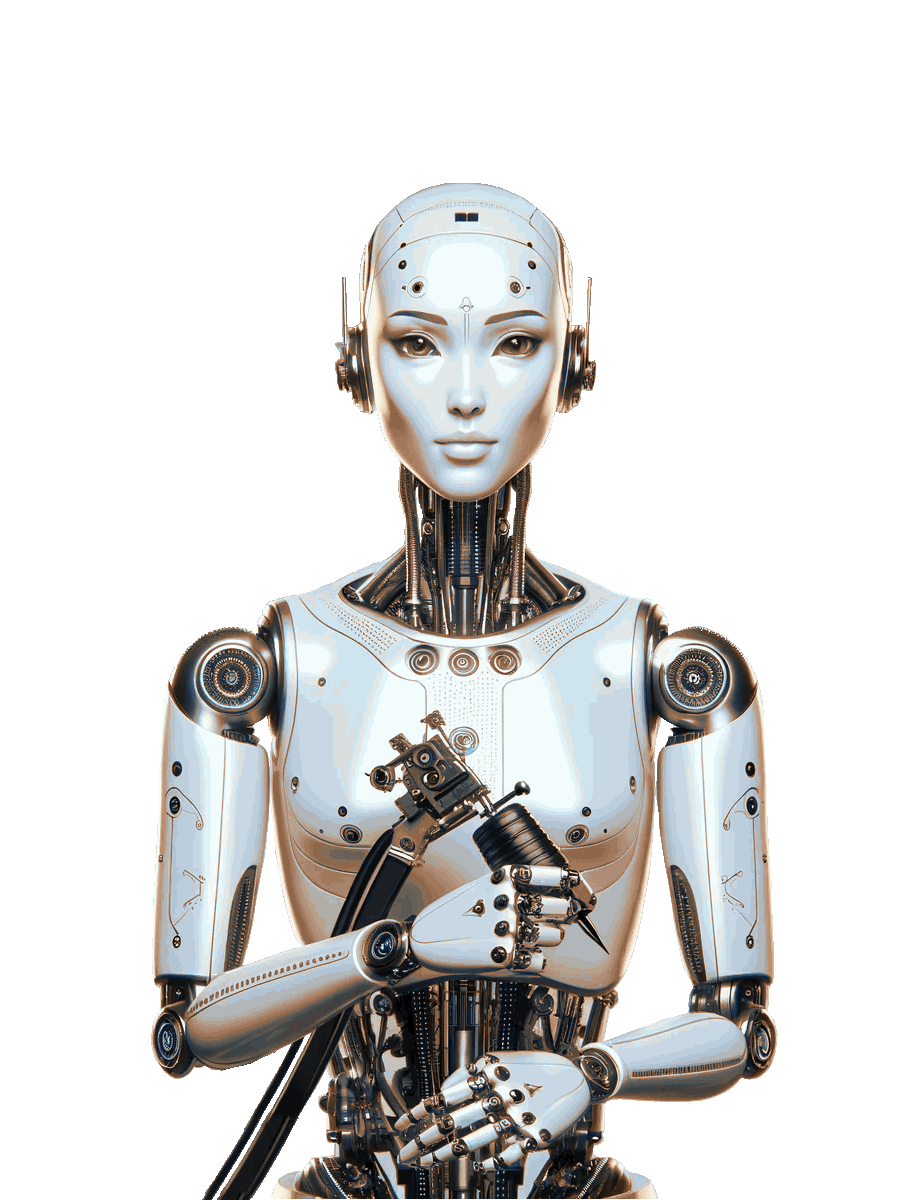
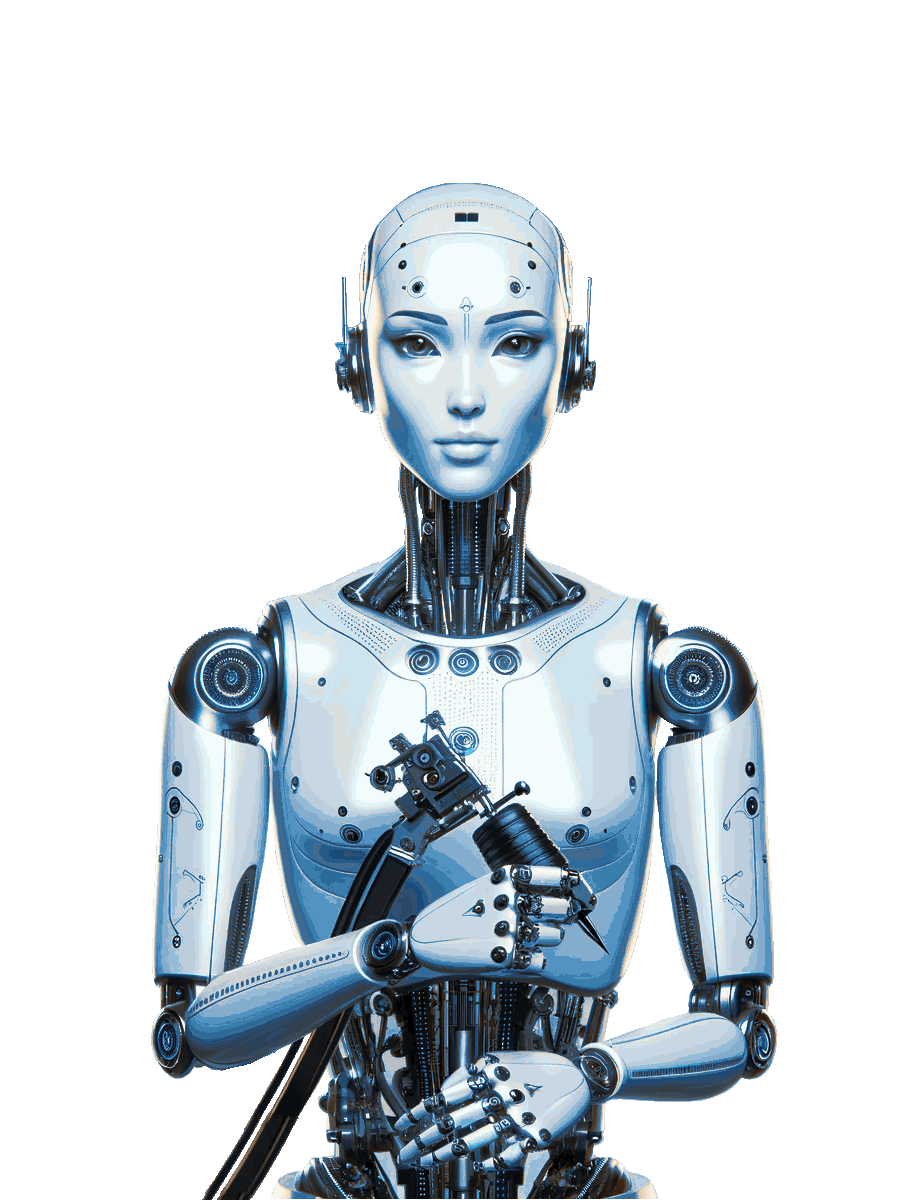
fix animation stronger color

Changed region(s): [[0.1538, 0.185, 0.8615, 1.0]]

diff --git a/build/static/css/main.6b842ee2.css b/build/static/css/main.6b842ee2.css
@@ -1,0 +1,2 @@
+body{-webkit-font-smoothing:antialiased;-moz-osx-font-smoothing:grayscale;font-family:-apple-system,BlinkMacSystemFont,Segoe UI,Roboto,Oxygen,Ubuntu,Cantarell,Fira Sans,Droid Sans,Helvetica Neue,sans-serif;margin:0}.input-wrapper{justify-content:center;margin-bottom:1rem}code{font-family:source-code-pro,Menlo,Monaco,Consolas,Courier New,monospace}.App{display:flex;flex-direction:column;min-height:100vh;position:relative;text-align:center}.reversed{transform:rotate(180deg)}.reversed-text{color:grey;font-size:16px;opacity:.5}.hidden{display:none}@keyframes fadeInOut{0%,to{opacity:.1}50%{opacity:.6}}@keyframes fadeInOut_oldman{0%,to{opacity:0}50%{opacity:1}}.header-buttons{align-items:right;display:flex;gap:10px;padding:20px;position:fixed;right:0;top:0;z-index:100}.profile-name{color:#6a567b;font-size:20px}.header-button{background-color:#6a567b;border:0 solid #ccc;border-radius:5px;color:#fff;cursor:pointer;font-size:15px;padding:10px 20px}.header-button-google{font-size:15px;height:40px;padding:0;text-decoration:none}.my_account_button{background-color:#341e4f;border:2px solid #462b5e;border-radius:5px;color:#fff;cursor:pointer;font-size:15px;padding:10px 20px;text-decoration:none}.my_account_button:hover{background-color:#6a567b;border:3px solid #6a567b;color:#fff;text-decoration:none}.header-button-google .google-logo{flex-shrink:0;height:100%;margin:0 10px 0 0;width:auto}.google-logo{margin-left:0}.header-button-google{background-color:#4285f4;color:#fff;justify-content:flex-start}.header-button-google img{margin-right:0}.header-button-google:hover,.header-button:hover{background-color:#38966d}body::-webkit-scrollbar{background:#0000;width:0}body{-ms-overflow-style:none;scrollbar-width:none}.tarot-star{animation:fadeInOut 5s infinite;width:30%}.oldman_fade,.tarot-star{bottom:0;height:auto;position:fixed;right:0;z-index:2}.oldman_fade{animation:fadeInOut_oldman 10s infinite;width:25%}@keyframes rotate360{0%{transform:rotate(0deg)}to{transform:rotate(1turn)}}.bottom-right-image{width:30%}.bottom-right-image,.bottom-right-image2{bottom:0;height:auto;position:fixed;right:0;z-index:1}.bottom-right-image2{width:25%}.loading-visual-female{animation:rotate360 5s linear infinite;height:auto;max-width:30%;opacity:.4}.center-container{align-items:center;display:flex;height:133vh;justify-content:center;left:0;position:fixed;top:0;width:100vw;z-index:0}.bottom-right-image-female,.bottom-right-image-woman{bottom:0;height:auto;position:fixed;right:0;width:25%;z-index:2}.AI-female-animate,.AI-woman-animate{animation:fadeInOut2 5s infinite;bottom:0;height:auto;position:fixed;right:0;width:25%;z-index:2}@keyframes fadeInOut2{0%,to{opacity:.1}50%{filter:box-shadow(0 0 20px rgb(7,147,35,.7));opacity:.8}}@keyframes fadeInOut3{0%,to{opacity:.1}50%{opacity:.9}}@keyframes teleportIn{0%{opacity:0}to{opacity:1}}.teleport-in{animation:teleportIn 1s ease-in-out}@keyframes load{0%,to{opacity:.2}50%{opacity:1}}.loading-image{animation:load 1s linear infinite;bottom:0;height:auto;position:fixed;right:0;width:30%;z-index:2}.App-header{align-items:center;background-color:#341e4f;color:#fff;display:flex;flex:99 1;flex-direction:column;font-size:calc(10px + 2vmin);justify-content:center}.tarot-cards-container{position:relative;z-index:2}.App-link{color:#237fbb}.App-footer{background-color:#341e4f;color:#a49f9f;flex:1 1;font-size:14px;margin-top:0;padding:10px;text-align:center}.App-footer a{color:#237fbb;font-size:16px;position:relative;text-decoration:none;z-index:2}.input-wrapper{align-items:center;display:flex;flex-direction:column}.user-info{display:flex;justify-content:space-between;margin-bottom:10px;width:100%;z-index:2}.container h2{margin-bottom:20px}.user-input,.user-select{flex-grow:1;margin:0 5px;min-width:0;z-index:2}.prompt-input{margin-bottom:10px;width:100%;z-index:2}.result-image-wrapper{border:2px solid #4a286e;border-radius:5px;color:#fff;font-size:16px;line-height:1.6;margin:20px auto;max-width:600px;padding:15px;z-index:2}.result-image-wrapper h3{margin-top:0;text-align:center;z-index:2}.password-overlay{align-items:center;background-color:#1e1e1e80;display:flex;flex-direction:column;height:100%;justify-content:center;left:0;position:fixed;top:0;width:100%;z-index:3}.password-info{background-color:#ffffffb3;border-radius:10px;color:#000;font-family:Arial,Helvetica,sans-serif;font-size:20px;margin-top:5px;opacity:1;padding:8px}.password-info a{color:#248dfd;text-decoration:none}.password-input{border:none;border-radius:5px;box-shadow:0 0 20px #000,0 0 5px #fff;font-size:20px;margin-bottom:0;outline:none;padding:10px}@keyframes blink{0%,to{opacity:1}50%{opacity:.3}}.loading-text{animation:blink 1.5s linear infinite;z-index:2}.loading-subtext{font-size:16px;opacity:.5;z-index:2}.tarot-cards{display:flex;gap:0;justify-content:center;margin-bottom:10px;margin-top:10px}.tarot-cards div{margin:0 auto;text-align:center;width:150px}.tarot-cards img{display:block;height:auto;margin:0 auto;width:120px}.tarot-cards h5{font-size:.7em;margin:2px 0}.card-animation{animation:flipIn 1s ease-in-out forwards;-webkit-backface-visibility:hidden;backface-visibility:hidden;opacity:0;transform:rotateY(90deg)}@keyframes flipIn{0%{opacity:0;transform:rotateY(90deg)}to{opacity:1;transform:rotateY(0)}}.card-delay-1{animation-delay:.5s}.card-delay-2{animation-delay:1s}.card-delay-3{animation-delay:1.5s}.button-design{background-color:#237fbb;border:none;border-radius:5px;color:#fff;cursor:pointer;font-size:16px;margin-top:0;padding:10px 15px;position:relative;transition:background-color .3s;z-index:3}.button-design:hover{animation:gradientShift 2s linear infinite;background:linear-gradient(270deg,#b13dff,#237fbb,#c41489,#f22626,#fa8f14,#10a01a,#b13dff);background-size:1000% 1000%}@keyframes gradientShift{0%{background-position:0 50%}to{background-position:-100% 50%}}.button-design-refresh{background-color:#fff;border:none;border-radius:5px;color:#000;cursor:pointer;font-size:16px;margin-left:5px;margin-top:0;padding:10px 12px;position:relative;transition:background-color .3s;z-index:3}.button-design-refresh:hover{background-color:#000;color:#fff}@keyframes shadowPulse{0%{box-shadow:0 0 7px #b98145,0 0 5px #3b203b}50%{box-shadow:0 0 15px #b98145,0 0 15px #3b203b}to{box-shadow:0 0 7px #b98145,0 0 5px #3b203b}}.button-design:disabled{background-color:#ccc;cursor:default;z-index:2}#birth-date-time,.prompt-input,.user-input,.user-select{border:1px solid #ccc;border-radius:4px;box-sizing:border-box;font-size:16px;margin-bottom:0;max-width:700px;padding:5px 12px;resize:none;width:100%}#birth-date-time:focus,.prompt-input:focus,.user-input:focus,.user-select:focus{border-color:#000;box-shadow:0 0 0 3px #8a99ab66;outline:none}.user-select{background-position:right 10px center;background-repeat:no-repeat;background-size:12px}.prompt-input{box-sizing:border-box;min-height:80px;width:99%}.AI-woman-animate2{animation:fadeInOut 5s infinite;bottom:0;height:auto;position:fixed;right:0;width:25%;z-index:2}@keyframes float{0%,to{transform:translateY(0)}50%{transform:translateY(-20px)}}.tarot-deck-container{align-items:center;display:flex;flex-direction:column;height:150px;justify-content:center;margin:20px auto 0;opacity:1;position:relative;transition:opacity 1s ease-in-out;width:100%}.tarot-deck-container img{height:auto;position:absolute;width:30%;z-index:5}.tarot1_stack1{z-index:10}.tarot2_card1{--slide-direction:100%;animation:cardFadeSlide 1.5s ease-in-out;z-index:20}.tarot3_stack2{z-index:30}.tarot4_card2{--slide-direction:-100%;animation:cardFadeSlide 1.5s ease-in-out;z-index:40}.tarot5_stack3{z-index:50}.tarot6_card3{--slide-direction:100%;animation:cardFadeSlide 1.5s ease-in-out;z-index:60}.tarot7_stack4{z-index:70}.tarot8_stack5{animation:fadeInOut3 5s infinite;z-index:80}@keyframes cardFadeSlide{0%{opacity:1;transform:translateX(0)}to{opacity:0;transform:translateX(var(--slide-direction))}}.fade-out{opacity:0;transition:opacity 1s ease-in-out}.popup-overlay{background-color:#0009;bottom:0;height:100%;justify-content:center;left:0;position:fixed;right:0;top:0;width:100%;z-index:1000}.popup-content,.popup-overlay{align-items:center;display:flex;flex-direction:column}.popup-content{background-color:#fff;border-radius:10px;box-shadow:0 4px 8px #0003;color:#000;font-size:1.2vw;height:16vh;justify-content:space-between;padding:1vw;text-align:center;width:25vw}.popup-content button{background-color:#007bff;border:none;border-radius:5px;color:#fff;cursor:pointer;font-size:1vw;padding:.5vw 0;width:5vw}.popup-content button:hover{background-color:#38966d}.popup-content2{align-items:center;background-color:#fff;border-radius:10px;box-shadow:0 4px 8px #0003;color:#000;display:flex;flex-direction:column;font-size:1.2vw;height:12vh;justify-content:space-between;padding:1vw;text-align:center;width:28vw}.generated-text{word-wrap:break-word;background-color:#2e1846;border:2px solid #3d2455;border-radius:5px;color:#fff;font-size:16px;line-height:1.6;margin:20px auto;max-width:600px;overflow-wrap:break-word;padding:15px;text-align:justify}.generated-text h3{margin-top:0;text-align:center;z-index:2}@media (max-width:400px){.popup-content{font-size:3vw;height:30vh;width:40vw}.popup-content button{font-size:2.5vw;padding:0}}.feedback-link{animation:fadeInOut3 5s infinite;color:#ff0;cursor:pointer;font-size:20px;left:0;padding:10px;position:absolute;top:1.5%;transform:rotate(-10deg);z-index:1000}.prompt-input:disabled,.user-input:disabled,.user-select:disabled{background-color:#2e1846;border:1px solid #462b5e;color:#fff;opacity:1}.prompt-input:disabled::placeholder,.user-input:disabled::placeholder,.user-select:disabled::placeholder{color:#6c4f85;opacity:1}.container2{background-color:#2e1846}.home-button{background-color:#6a567b;border:0 solid #ccc;padding:10px 20px}.home-button:hover{background-color:#38966d}.App-footer2{background-color:#2e1846}.about-section{margin-top:10px}.about-column{border:2px solid #4a286e;max-width:60%}.container2{align-items:center;background-color:#341e4f;color:#fff;display:flex;flex-direction:column;flex-grow:1;font-size:calc(10px + 2vmin);justify-content:flex-start}.header-link{display:inline-flex;text-decoration:none}.aboutPage{display:flex;flex-direction:column;min-height:100vh;text-align:center}.about-buttons{display:flex;gap:10px;padding:20px;position:fixed;right:0;top:0;z-index:100}.stripe-buttons-container{display:flex;flex-wrap:wrap;justify-content:space-around}@media (max-width:600px){.stripe-buttons-container{align-items:center;flex-direction:column}}.home-button{background-color:#341e4f;border:2px solid #462b5e;border-radius:5px;color:#fff;cursor:pointer;font-size:15px;padding:11px 20px;text-decoration:none}.home-button:hover{background-color:#6a567b;border:3px solid #6a567b;color:#fff;text-decoration:none}.App-footer2{background-color:#341e4f;box-sizing:border-box;color:#a49f9f;font-size:14px;padding:15px;text-align:center;width:100%}.App-footer2 a{color:#007bff;font-size:16px;position:relative;text-decoration:none;z-index:1}.about-section{display:flex;flex-grow:1;justify-content:space-around;margin-left:50px;margin-right:50px;margin-top:0;max-width:80%}.header-button-google:hover{background-color:#341e4f;color:#fff}.header-button-google{align-items:center;background-color:#341e4f;border:none;border-radius:2px;color:#a8a8a8;cursor:pointer;display:flex;font-size:16px;justify-content:left;padding:0 15px 0 0}.header-buttons1{align-items:center;display:flex;gap:10px;left:0;padding:20px;position:fixed;top:0;z-index:100}.about-column a{color:#248dfd;text-decoration:none}.about-column h5{margin-bottom:10px;margin-top:10px}.centered-text{text-align:center!important}.about-column{background-color:#2e1846;border:2px solid #462b5e;flex:1 1;max-width:80%;padding:10px}.about-column p{font-size:15px;text-align:justify}
+/*# sourceMappingURL=main.6b842ee2.css.map*/

diff --git a/build/index.html b/build/index.html
@@ -1,1 +1,1 @@
-<!doctype html><html lang="en"><head><meta charset="utf-8"/><link rel="icon" href="/star92.png"/><meta name="viewport" content="width=device-width,initial-scale=1"/><meta name="theme-color" content="#000000"/><meta name="description" content="Web site created using create-react-app"/><link rel="apple-touch-icon" href="/star.png"/><link rel="manifest" href="/manifest.json"/><title>Divination by AI</title><script defer="defer" src="/static/js/main.06df0b32.js"></script><link href="/static/css/main.013bfe6a.css" rel="stylesheet"></head><body><noscript>You need to enable JavaScript to run this app.</noscript><div id="root"></div></body></html>
+<!doctype html><html lang="en"><head><meta charset="utf-8"/><link rel="icon" href="/star92.png"/><meta name="viewport" content="width=device-width,initial-scale=1"/><meta name="theme-color" content="#000000"/><meta name="description" content="Web site created using create-react-app"/><link rel="apple-touch-icon" href="/star.png"/><link rel="manifest" href="/manifest.json"/><title>Divination by AI</title><script defer="defer" src="/static/js/main.06df0b32.js"></script><link href="/static/css/main.6b842ee2.css" rel="stylesheet"></head><body><noscript>You need to enable JavaScript to run this app.</noscript><div id="root"></div></body></html>
